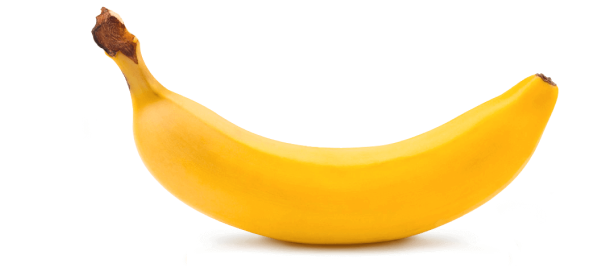
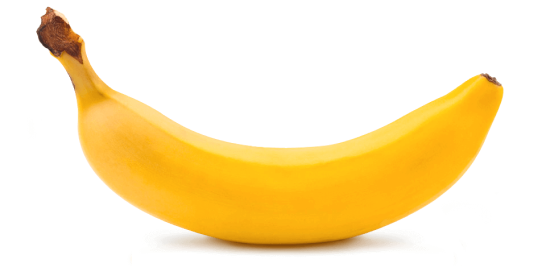
без позиции банана

diff --git a/src/partials/subscribe.html b/src/partials/subscribe.html
@@ -1,59 +1,61 @@
-<div class="subscribe">
-  <div>
-    <h2 class="subscribe-title">Subscribe To Get Special Offers</h2>
-    <p class="subscribe-text">
-      Lorem ipsum dolor sit amet, consectetur adipiscing elit. Suspendisse
-      varius enim in eros elementum tristique.
-    </p>
-    <form class="subscribe-form">
-      <label
-        for="subscribe-e-mail"
-        class="subscribe-input__email-field"
-      ></label>
-      <input
-        type="email"
-        class="subscribe-input__email"
-        name="e-mail"
-        id="subscribe-e-mail"
-        placeholder="Enter your email"
-        pattern="[a-z0-9._%+-]+@[a-z0-9.-]+\.[a-z]{2,}$"
-        required
-      />
-      <button type="submit" class="subscribe-input__button">Subscribe</button>
-    </form>
+<section class="container">
+  <div class="subscribe">
+    <div>
+      <h2 class="subscribe-title">Subscribe To Get Special Offers</h2>
+      <p class="subscribe-text">
+        Lorem ipsum dolor sit amet, consectetur adipiscing elit. Suspendisse
+        varius enim in eros elementum tristique.
+      </p>
+      <form class="subscribe-form">
+        <label
+          for="subscribe-e-mail"
+          class="subscribe-input__email-field"
+        ></label>
+        <input
+          type="email"
+          class="subscribe-input__email"
+          name="e-mail"
+          id="subscribe-e-mail"
+          placeholder="Enter your email"
+          pattern="[a-z0-9._%+-]+@[a-z0-9.-]+\.[a-z]{2,}$"
+          required
+        />
+        <button type="submit" class="subscribe-input__button">Subscribe</button>
+      </form>
+    </div>
+    <div class="banan">
+      <picture>
+        <source
+          srcset="
+            ./images/Subscribe-banan/banan-desctop1x.png 1x,
+            ./images/Subscribe-banan/banan-desctop2x.png 2x
+          "
+          media="(min-width: 1280px)"
+          type="image/png"
+        />
+        <source
+          srcset="
+            ./images/Subscribe-banan/banan-tablet1x.png 1x,
+            ./images/Subscribe-banan/banan-tablet2x.png 2x
+          "
+          media="(min-width: 768px)"
+          type="image/png"
+        />
+        <source
+          srcset="
+            ./images/Subscribe-banan/banan-mobile1x.png 1x,
+            ./images/Subscribe-banan/banan-mobile2x.png 2x
+          "
+          media="(max-width: 767px)"
+          type="image/png"
+        />
+        <img
+          class=""
+          src="./images/Subscribe-banan/banan-mobile1x.png"
+          alt="Banan"
+          width="608"
+        />
+      </picture>
+    </div>
   </div>
-  <div class="banan">
-    <picture>
-      <source
-        srcset="
-          ./images/Subscribe-banan/banan-desctop1x.png 1x,
-          ./images/Subscribe-banan/banan-desctop2x.png 2x
-        "
-        media="(min-width: 1280px)"
-        type="image/jpeg"
-      />
-      <source
-        srcset="
-          ./images/Subscribe-banan/banan-tablet1x.png 1x,
-          ./images/Subscribe-banan/banan-tablet2x.png 2x
-        "
-        media="(min-width: 768px)"
-        type="image/jpeg"
-      />
-      <source
-        srcset="
-          ./images/Subscribe-banan/banan-mobile1x.png 1x,
-          ./images/Subscribe-banan/banan-mobile2x.png 2x
-        "
-        media="(max-width: 767px)"
-        type="image/jpeg"
-      />
-      <img
-        class="banan__img"
-        src="./images/Subscribe-banan/banan-desctop2x.png"
-        alt="Banan"
-        width="608"
-      />
-    </picture>
-  </div>
-</div>
+</section>

diff --git a/src/sass/layout/_subscribe.scss b/src/sass/layout/_subscribe.scss
@@ -1,23 +1,28 @@
 .subscribe {
     display: flex;
-    background-color: #f5f5f5;
+    background-color: #fefefe;
     position: relative;
-    flex-wrap: wrap;
+    // flex-wrap: wrap;
+    // outline: 1px solid red;
+
+
 
 }
 
 .subscribe-title {
+    // outline: 1px solid red;
     font-family: var(--primary-font);
     text-transform: capitalize;
     color: var(--primary-text-cl);
     margin-left: 20px;
+    margin-top: 112px;
     font-weight: 700;
     font-size: 28px;
 
     width: 280px;
 
     line-height: calc(37px/28px);
-    margin-top: 180px;
+
     margin-bottom: 20px;
 
     @media screen and (min-width: 767px) {
@@ -25,12 +30,14 @@
         font-size: 42px;
         width: 656px;
         margin-left: 17px;
+        margin-top: 180px;
 
 
     }
 }
 
 .subscribe-text {
+    // outline: 1px solid red;
     font-family: var(--primary-font);
 
     font-weight: 400;
@@ -54,6 +61,7 @@
 
 
 .subscribe-input__email {
+    // outline: 1px solid red;
 
     font-family: var(--primary-font);
     width: 279px;
@@ -66,7 +74,7 @@
     color: var(--primary-text-cl);
     border: 0.854167px solid var(--menu-border-cl);
     border-radius: 30px;
-    background-color: #f5f5f5;
+    background-color: inherit;
     text-align: left;
     padding-left: 12px;
     margin-left: 21px;
@@ -85,11 +93,13 @@
     @media screen and (min-width: 767px) {
         margin-left: 16px;
         width: 395px;
+        margin-bottom: 100px;
 
     }
 }
 
 .subscribe-input__button {
+    // outline: 1px solid red;
     color: var(--primary-text-cl);
     border-radius: 30px;
     background-color: var(--menu-avtiv-border-cl);
@@ -107,6 +117,7 @@
     font-size: 13px;
     line-height: 1.5;
     cursor: pointer;
+    margin-bottom: 60px;
 
 
 
@@ -120,33 +131,34 @@
 }
 
 .banan {
+    // outline: 1px solid red;
     position: absolute;
     left: 20px;
     right: 20px;
     top: 17px;
     bottom: 17px;
-    width: 280px;
+    width: 161px;
 
-    @media screen and (min-width: 480px) {}
+    @media screen and (min-width: 480px) {
+        width: 280px;
+    }
 
     @media screen and (min-width: 767px) {
-        position: absolute;
-        left: 455px;
-        right: 32px;
-        top: 46px;
-        bottom: 20px;
+        // position: absolute;
+        // left: 455px;
+        // right: 32px;
+        // top: 46px;
+        // bottom: 20px;
         width: 281px;
-        height: auto;
+        // height: auto;
         // display: contents;
     }
 
     @media screen and (min-width: 1280px) {
         position: absolute;
         left: 656px;
-        right: 16px;
-        top: 134px;
-        bottom: 64px;
-        width: 608px;
-        height: auto;
+        margin-top: 134px;
+        width: 546px;
+        height: 266px;
     }
 }

diff --git a/src/sass/components/_container-setting.scss b/src/sass/components/_container-setting.scss
@@ -11,8 +11,9 @@
     padding-left: 32px;
     padding-right: 32px;
   }
-  @media screen and (min-width: 1200px) {
-    width: 1200px;
+
+  @media screen and (min-width: 1280px) {
+    width: 1280px;
     padding-left: 16px;
     padding-right: 16px;
   }
